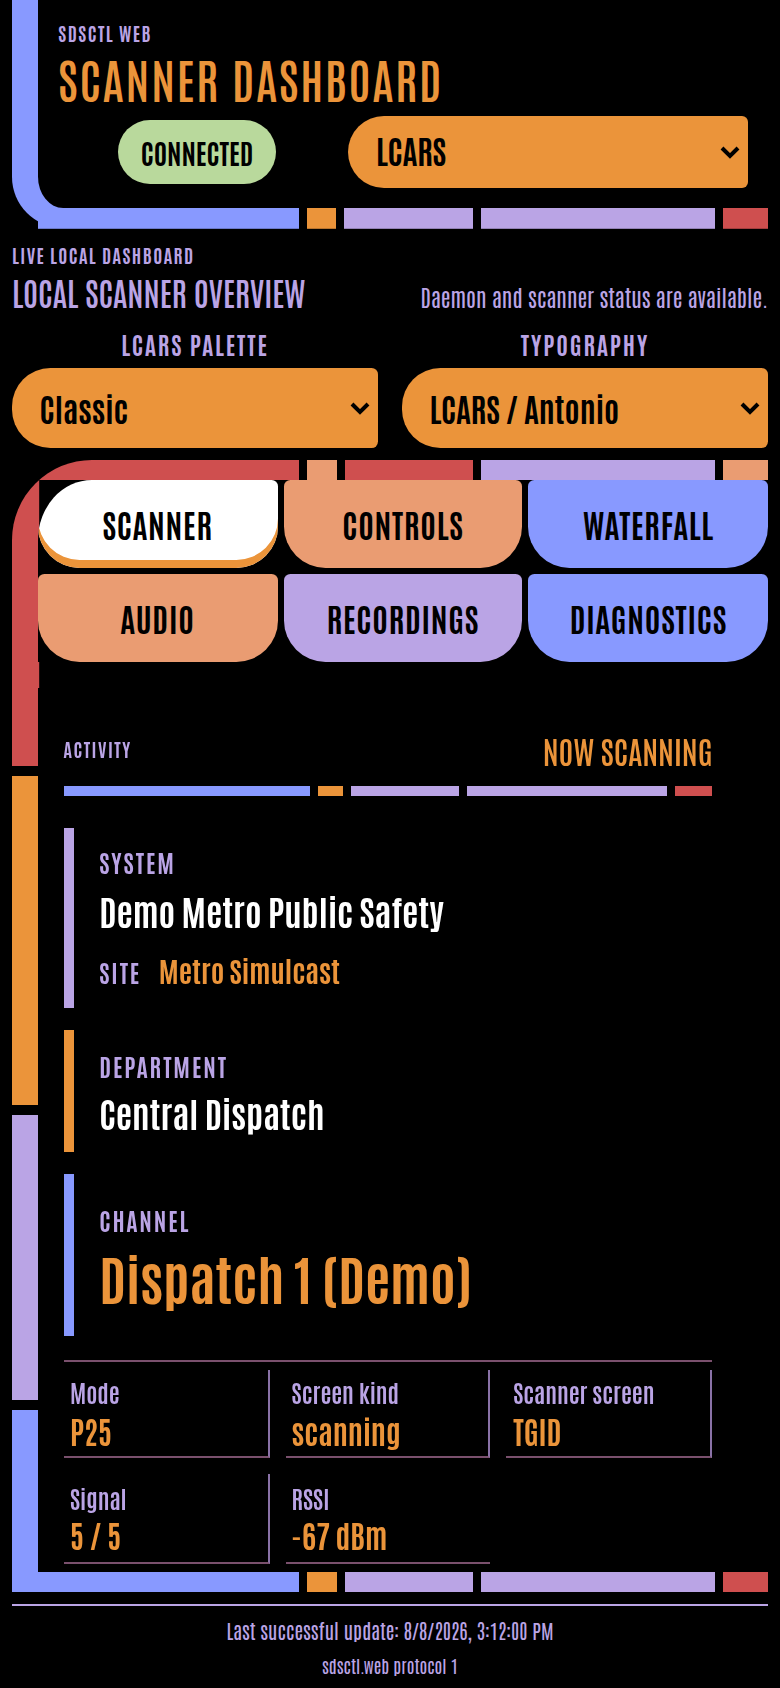
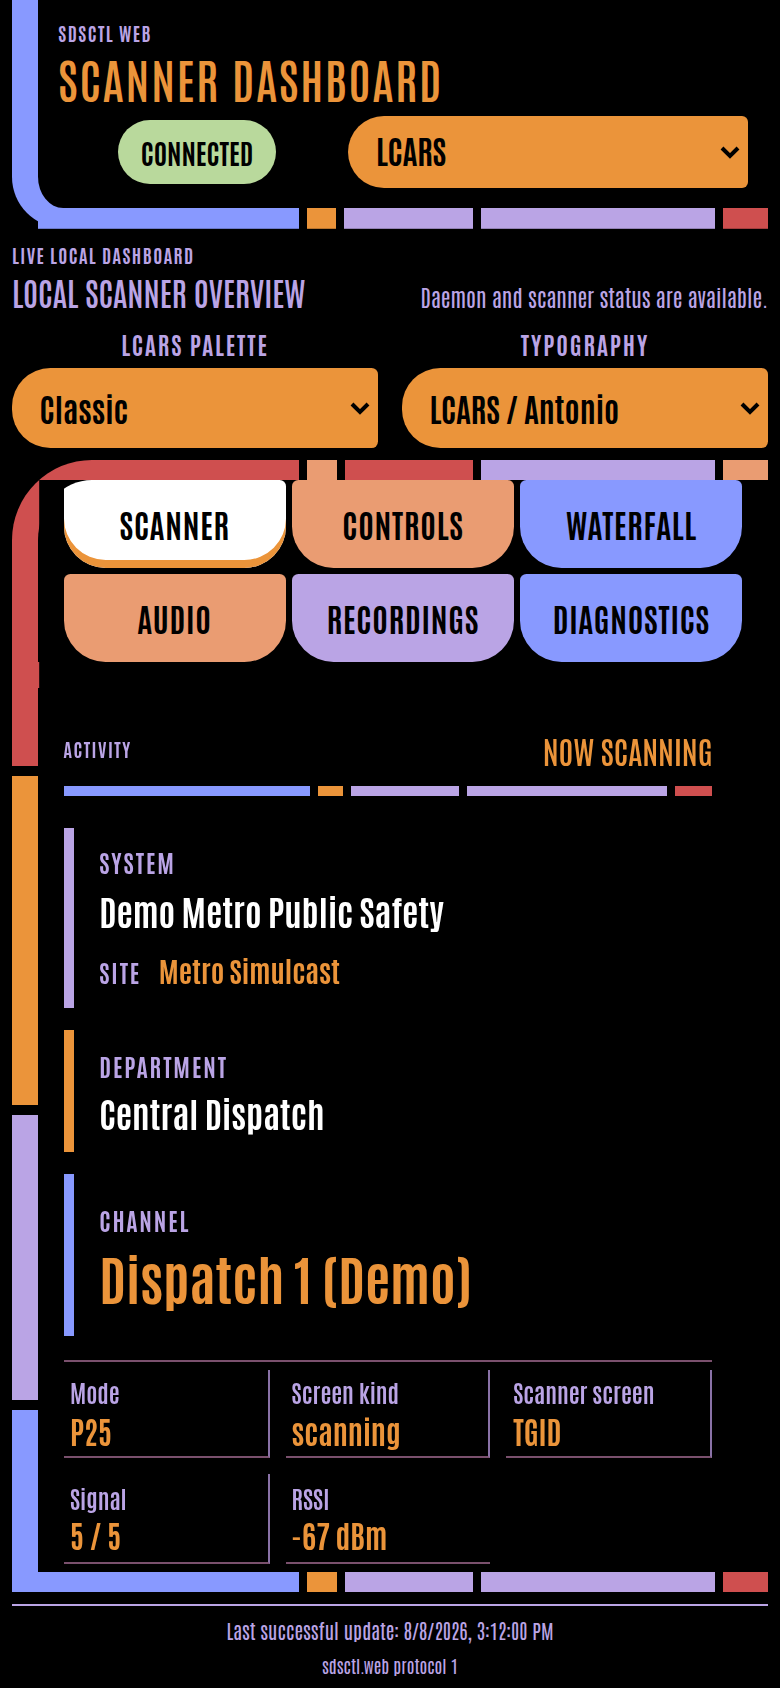
Fix responsive LCARS navigation elbow

Changed region(s): [[0.6462, 0.2773, 0.9846, 0.4005], [0.0308, 0.2773, 0.4, 0.4005]]

diff --git a/src/sds200/web_assets/lcars-v2.css b/src/sds200/web_assets/lcars-v2.css
@@ -57,11 +57,19 @@
   :root[data-theme="lcars"][data-lcars-v2-layout="v2"]:not([data-kiosk-compact="true"]) {
     --lcars-v2-nav-width: clamp(10rem, 14vw, 13rem);
     --lcars-v2-layout-gap: clamp(0.7rem, 1.6vw, 1.35rem);
+    --lcars-v2-horizontal-nav-inset: 0.8rem;
   }
 
   :root[data-theme="lcars"][data-lcars-v2-layout="v2"]:not([data-kiosk-compact="true"]) .workspace-shell {
     border-radius: 2.5rem 0 0 0;
     gap: 0.8rem !important;
+  }
+
+  /* The fluid left rail is narrower than the fixed shell radius at some
+   * horizontal widths. Keep its variable inner curve away from Scanner so
+   * the frame owns the elbow and every tab keeps its own stable shape. */
+  :root[data-theme="lcars"][data-lcars-v2-layout="v2"]:not([data-kiosk-compact="true"]) .workspace-tabs {
+    padding-inline: var(--lcars-v2-horizontal-nav-inset) !important;
   }
 
   :root[data-theme="lcars"][data-lcars-v2-layout="v2"]:not([data-kiosk-compact="true"]) .workspace-tabs [role="tab"] {

diff --git a/tests/test_web_themes.py b/tests/test_web_themes.py
@@ -179,6 +179,23 @@ def test_lcars_header_content_reserves_space_for_decorative_edges() -> None:
     assert "flex: 0 0 var(--lcars-v2-nav-cap) !important;" in layout
 
 
+def test_lcars_horizontal_navigation_clears_the_fluid_elbow() -> None:
+    layout = files("sds200.web_assets").joinpath("lcars-v2.css").read_text()
+
+    assert "--lcars-v2-horizontal-nav-inset: 0.8rem;" in layout
+    assert (
+        "padding-inline: var(--lcars-v2-horizontal-nav-inset) !important;"
+        in layout
+    )
+    # The wide vertical rail has its own independent decorative cap and must
+    # retain the existing edge-to-edge navigation geometry.
+    desktop = layout.split(
+        "@media (min-width: 64rem) and (min-height: 38rem)", 2
+    )[2]
+    tabs = desktop.split(".workspace-tabs {", 1)[1].split("}", 1)[0]
+    assert "padding: 0 !important;" in tabs
+
+
 @pytest.mark.parametrize("theme_id", ("first-responder", "amateur-radio"))
 def test_overview_label_clears_the_header_divider(theme_id: str) -> None:
     stylesheet = read_built_in_web_theme_stylesheet(
